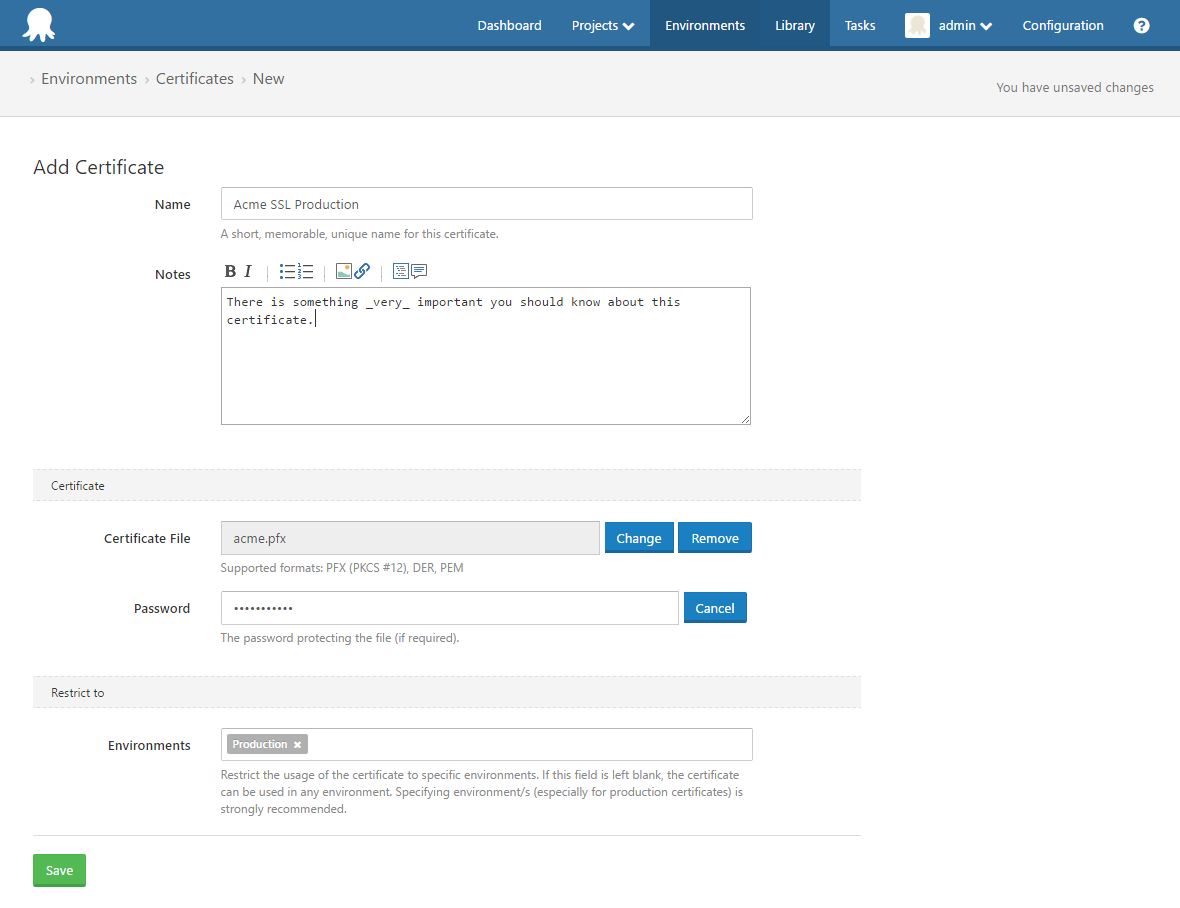
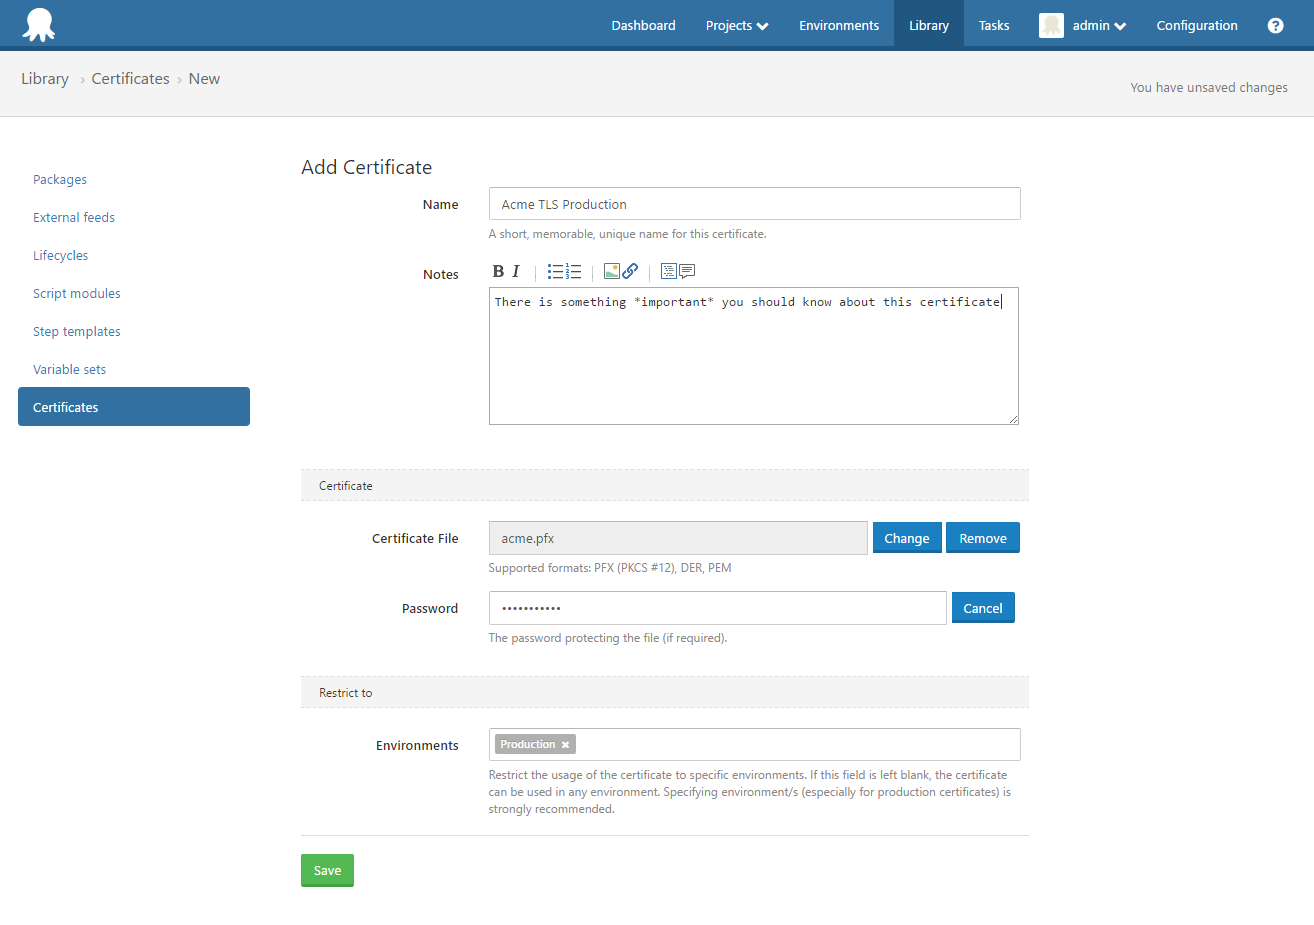
Bulk of certificates docs

diff --git a/docs/deploying-applications/variables/certificate-variables.md b/docs/deploying-applications/variables/certificate-variables.md
@@ -1,0 +1,36 @@
+---
+title: Certificate Variables 
+position: 8
+---
+
+In the variable-editor, selecting *Certificate* as the variable type allows you to create a variable with a certificate managed by Octopus as the value.
+
+![](/docs/images/certificates/certificate-variable-select.png)
+
+Certificate variables can be [scoped](/docs/deploying-applications/variables/scoping-variables.md), similar to regular text variables.
+
+![](/docs/images/certificates/certificate-variables-scoped.png)
+
+### Expanded Properties
+
+At deploy-time, Certificate variables are expanded. For example, a variable _MyCertificate_ becomes:
+
+| Variable                        | Description                                            | Example value |
+| ----------------------          | ------------------                                     | ------------- |
+| MyCertificate                   | The certificate ID                                     | Certificates-1 | 
+| MyCertificate.Type              | The variable type                                      | Certificate 
+| MyCertificate.Name              | The user-provided name                                 | My Development Certificate 
+| MyCertificate.Thumbprint        | Thumbprint                                             | A163E39F59560E6FE33A0299D19124B242D9B37E
+| MyCertificate.Pfx               | The base64 encoded certificate in PKCS#12 format, including the private-key if present.  | 
+| MyCertificate.Certificate       | The base64 encoded DER ASN.1 certificate.              | 
+| MyCertificate.PrivateKey        | The base64 encoded DER ASN.1 private key.              | 
+| MyCertificate.CertificatePem    | The PEM representation of the certificate (i.e. the PublicKey with header\footer).  | 
+| MyCertificate.PrivateKeyPem     | The PEM representation of the private key (i.e. the PrivateKey with header\footer).  | 
+| MyCertificate.Subject           | The X.500 distinguished name of the subject            | 
+| MyCertificate.Issuer            | The X.500 distinguished name of the issuer             | 
+| MyCertificate.NotBefore         | NotBefore date | 2016-06-15T13:45:30.0000000-07:00
+| MyCertificate.NotBefore         | NotAfter date | 2019-06-15T13:45:30.0000000-07:00
+
+#### Private-Key Variables
+
+The variables which contain the private-key (if present) will be stored and transmitted as [sensitive-variables](/docs/deploying-applications/variables/sensitive-variables.md).  

diff --git a/docs/deploying-applications/certificates/index.md b/docs/deploying-applications/certificates/index.md
@@ -1,0 +1,47 @@
+---
+title: Certificates
+description: Manage X.509 certificates with Octopus Deploy
+position: 29 
+---
+
+X.509 certificates are key component of many deployment processes. Octopus Deploy provides the ability to securely store and manage your certificates, and easily use them in your Octopus Projects.  
+
+## Securely Store Certificates and Private-Keys 
+
+![](/docs/images/certificates/certificate-list.png "width=500")
+
+- [Add Certificate](/docs/deploying-applications/certificates/add-certificate.md)
+- [Replacing certificates](/docs/deploying-applications/certificates/replace-certificate.md)
+- [Archiving and deleting certificates](/docs/deploying-applications/certificates/archiving-and-deleting-certificates.md)
+- [Exporting certificates](/docs/deploying-applications/certificates/export-certificate.md)
+
+## Configure Subscriptions for Expiry Notifications 
+
+[Octopus Subscriptions](/docs/administration/subscriptions.md) can used to configure notifications when certificates are close to expiry or have expired. 
+
+There is a "Certificate expiry events" event-group, and three events:  
+
+- Certificate expiry 20-day warning  
+- Certificate expiry 10-day warning  
+- Certificate expired
+
+## Import Certificates into the Windows Certificate Store  
+
+Certificates can be imported to Windows Certificate Stores as part of a deployment process using the [Import Certificate Deployment Step](/docs/deploying-applications/certificates/import-certificate-step.md)
+
+![](/docs/images/certificates/import-certificate-step-select.png "width=500")
+
+## Use certificates for HTTPS bindings when deploying IIS Websites   
+
+When configuring HTTPS bindings for [IIS Websites](/docs/deploying-applications/iis-websites-and-application-pools.md), a certificate can be configured either by:
+- entering the thumbprint directly (this assumes the certificate has already been installed on the machine) 
+- selecting a certificate-typed variable (this will automatically install the certificate)
+
+![](/docs/images/certificates/https-binding-certificate.png "width=500")
+
+## Create Certificate-Typed Variables 
+
+Certificates managed by Octopus can be configured as the [value of variables](/docs/deploying-applications/variables/certificate-variables.md), and used from custom deployment scripts.
+
+![](/docs/images/certificates/certificate-variables-scoped.png "width=500")
+

diff --git a/docs/deploying-applications/certificates/archiving-and-deleting-certificates.md b/docs/deploying-applications/certificates/archiving-and-deleting-certificates.md
@@ -1,0 +1,26 @@
+---
+title: Archiving and Deleting Certificates 
+position: 3 
+---
+
+## Archiving a Certificate
+
+Archiving a certificate will prevent it from being selected as the value of a variable, while still allowing it to be used by existing usages (projects, releases, deployments). 
+
+![](/docs/images/certificates/archive-certificate.png "width=500")
+
+Archived certificates can be viewed by navigating to {{Library,Certificates,View Archive}}.
+
+When a certificate is [replaced](/docs/deploying-applications/certificates/replace-certificate.md), it is automatically archived if it is not already.
+
+## Deleting a certificate
+
+Once a certificate has been archived, it can then be deleted.  
+
+:::warning
+This is a hard delete. Once deleted, a certificate and it's private key (if present) cannot be recovered.
+:::
+
+You will be prevented from deleting a certificate if it is the value of one or more variables. You can view a certificates usage on the 'Usage' tab of the certificate details page.
+
+Variables snap-shotted as part of a release will not prevent deleting a certificate. Attempting to deploy a release which references a deleted certificate will result in an error.

diff --git a/docs/deploying-applications/docker-containers/index.md b/docs/deploying-applications/docker-containers/index.md
@@ -1,6 +1,6 @@
 ---
 title: Docker Containers
-position: 30
+position: 35
 ---
 
 Following on from the original [Octopus-Docker blog post](https://octopus.com/blog/docker-windows-octopus) and subsequent [RFC](https://octopus.com/blog/rfc-docker-integration), Octopus Deploy is taking the approach to treat Docker images as immutable build artifacts that are moved through each stage of deployment by running them as containers with deploy-time specific configuration. We feel this best follows the container mentality and avoids trying to re-invent container build and orchestration tools that already exist. We feel however, that Octopus Deploy still plays a crucial part in this process to allow your container deployments to integrate into your full deployment pipeline, through a staged environment lifecycle and alongside other non-container phases. Maintaining centralized auditing, configuration and orchestration of the whole deployment process from start to finish is not a problem solved by containers, and this is where our focus and expertise at Octopus Deploy lies.

diff --git a/docs/deploying-applications/certificates/add-certificate.md b/docs/deploying-applications/certificates/add-certificate.md
@@ -1,13 +1,13 @@
 ---
 title: Add a Certificate to Octopus
-position: 0
+position: 1 
 ---
 
-To add a certificate to Octopus, navigate to **Environments** -> **Certificates** -> **Add Certificate** 
+To add a certificate to Octopus, navigate to **Library** -> **Certificates** -> **Add Certificate** 
 
-![Add certificate](/docs/images/certificates/add-certificate.png)
+![Add certificate](/docs/images/certificates/add-certificate.png "width=500")
 
-When selecting your certificate file for upload, it must be one of the [supported file-formats](/docs/key-concepts/environments/certificates/file-formats.md).
+When selecting your certificate file for upload, it must be one of the [supported file-formats](/docs/deploying-applications/certificates/file-formats.md).
 
 :::hint
 **Security Recommendation: Scope your certificates to the appropriate Environments**

diff --git a/docs/deploying-applications/certificates/import-certificate-step.md b/docs/deploying-applications/certificates/import-certificate-step.md
@@ -1,0 +1,20 @@
+---
+title: Import Certificate to Windows Certificate Store 
+position: 4 
+---
+
+The *Import Certificate* step can be used to import a certificate managed by Octopus into a Windows Certificate Store.
+
+![](/docs/images/certificates/import-certificate-step-select.png "width=500")
+
+The certificate can be imported to the *Local Machine* or *Current User* locations, or enter a *Custom User* to install the certificate for.
+
+The store name can be one of the built-in Windows stores, or you can define a custom store name to use.
+
+If the certificate has a private-key, it can be marked as exportable, and access can be granted to specific users.   
+
+:::hint
+The Administrators group on the target machine will always be granted access to the private-key.
+:::
+
+![](/docs/images/certificates/import-certificate-step-edit.png "width=500")

diff --git a/docs/deploying-applications/certificates/replace-certificate.md b/docs/deploying-applications/certificates/replace-certificate.md
@@ -1,0 +1,18 @@
+---
+title: Replace a Certificate 
+position: 4 
+---
+
+The Replace Certificate feature is designed for the scenario where a new certificate has been obtained via a renewal process. 
+
+The new certificate will assume the ID of the previous certificate, meaning all referencing variables will now refer to the new certificate.
+
+The previous certificate will be [archived](/docs/deploying-applications/certificates/archiving-and-deleting-certificates.md). 
+
+To replace a certificate, navigate to the certificate details page and click 'Replace'.
+
+![](/docs/images/certificates/replace-certificate-btn.png "width=500")
+
+Select the replacement certificate file and password (if required).
+
+![](/docs/images/certificates/replace-certificate-dialog.png "width=500")

diff --git a/docs/deploying-applications/certificates/export-certificate.md b/docs/deploying-applications/certificates/export-certificate.md
@@ -1,0 +1,16 @@
+---
+title: Export a Certificate 
+position: 5 
+---
+
+Certificates can be downloaded via the Octopus Portal.  The certificate may be exported in any of the [supported file-formats]()/docs/deploying-applications/certificates/file-formats.md, or exactly as it was originally uploaded.
+
+![](/docs/images/certificates/download-certificate-btn.png "width=500")
+
+![](/docs/images/certificates/download-certificate-dialog.png "width=500")
+
+## Private-Keys
+
+If the certificate includes a private-key, then user requires the _Export certificate private-keys_ permission to download the certificate in a format which includes the private-key. 
+
+Exporting a certificate with a private-key will be [audited](/docs/administration/auditing.md).

diff --git a/docs/deploying-applications/blocking-deployments.md b/docs/deploying-applications/blocking-deployments.md
@@ -1,6 +1,6 @@
 ---
 title: Blocking Deployments
-position: 29
+position: 30 
 ---
 
 Sometimes you may want to block your Project from deploying a specific Release. Perhaps you just want to temporarily block the Release, or you need to fix some variables before proceeding? Perhaps the Release itself is bad, but you don't want to delete the Release for auditing purposes?

diff --git a/docs/deploying-applications/certificates/file-formats.md b/docs/deploying-applications/certificates/file-formats.md
@@ -1,6 +1,6 @@
 ---
 title: Certificates - Supported File Formats 
-position: 0
+position: 2
 ---
 
 The following certificate formats are supported in Octopus Deploy:
